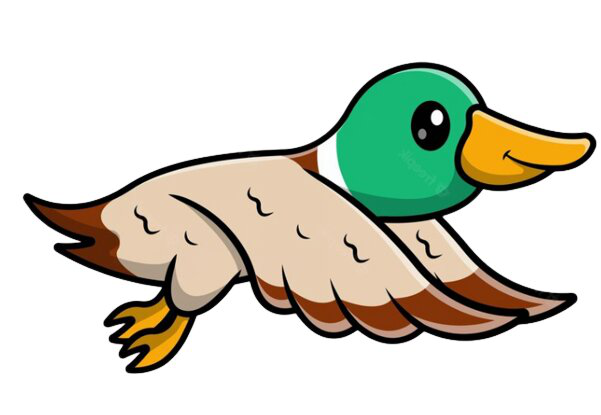
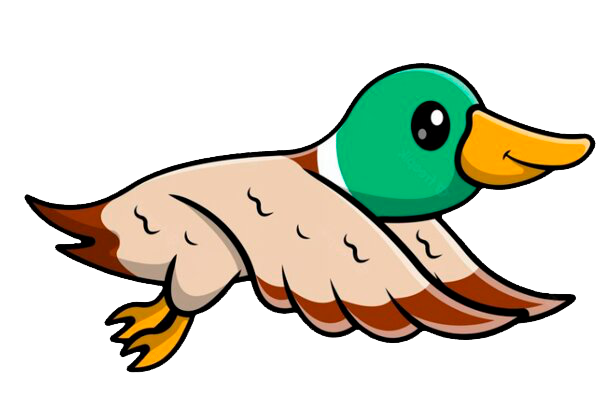
duck fly movement

diff --git a/scripts/script.js b/scripts/script.js
@@ -7,6 +7,13 @@ let posY = Math.random() * (gameContainer.clientHeight - duck.clientHeight);
 let velocityX = (Math.random() - 0.5) * 7; // Velocity X random between -1 y 1
 let velocityY = (Math.random() - 0.5) * 7; // Velocity Y random between -1 y 1
 
+let isDuck1 = true; // Initial image state
+
+function alternateDuckImage() {
+    isDuck1 = !isDuck1;
+    duck.querySelector('img').src = isDuck1 ? 'images/duck1.png' : 'images/duck2.png';
+}
+
 function moveDuck() {
 
     // Change duck direction
@@ -27,6 +34,7 @@ function moveDuck() {
     duck.style.left = posX + 'px';
     duck.style.top = posY + 'px';
 
+    alternateDuckImage();
     requestAnimationFrame(moveDuck);
 }
 
